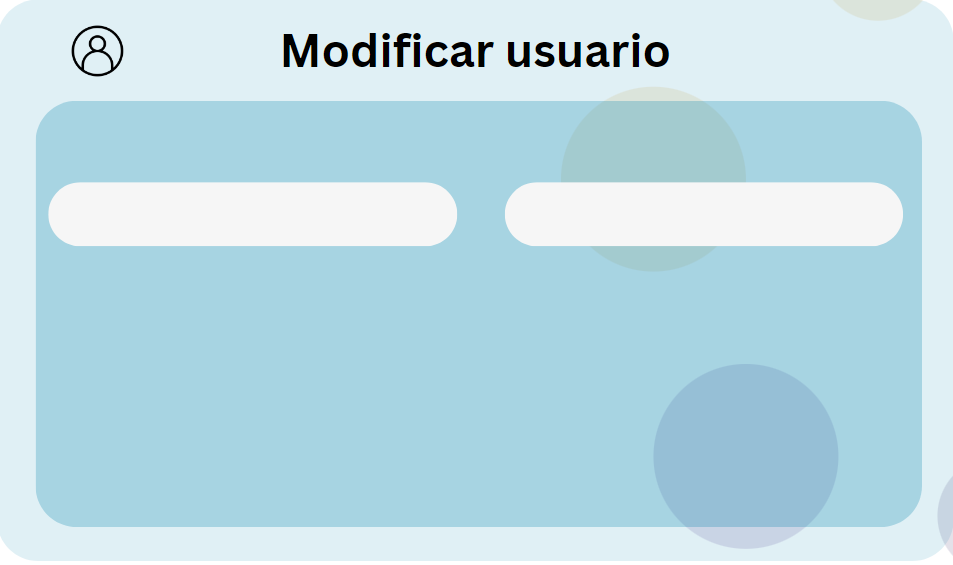
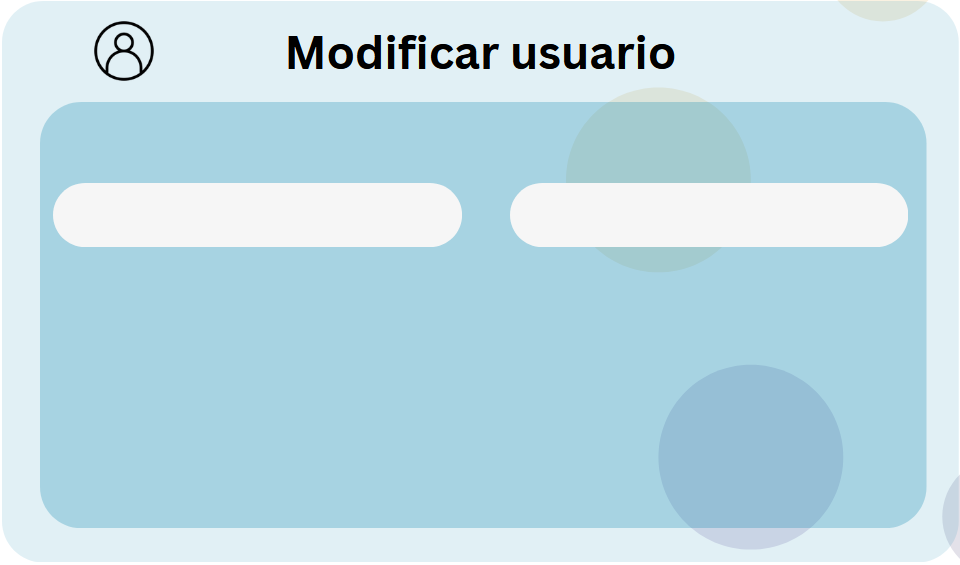
actualizado los dialogs,
se ha eliminado los dialogs antiguos de fotos, se ha añadido los nuevos, se ha creado los fondo a los dialogs

diff --git a/dentiapp/src/Vista/ModificarFacturacionDialog.java b/dentiapp/src/Vista/ModificarFacturacionDialog.java
@@ -3,6 +3,7 @@ package Vista;
 import java.awt.BorderLayout;
 import java.awt.FlowLayout;
 
+import javax.swing.ImageIcon;
 import javax.swing.JButton;
 import javax.swing.JDialog;
 import javax.swing.JPanel;
@@ -37,10 +38,14 @@ public class ModificarFacturacionDialog extends JDialog {
 		contentPanel.setLayout(new FlowLayout());
 		contentPanel.setBorder(new EmptyBorder(5, 5, 5, 5));
 		getContentPane().add(contentPanel, BorderLayout.CENTER);
-		{
-			JLabel lblNewLabel = new JLabel("modificar facturacion dialog");
-			contentPanel.add(lblNewLabel);
-		}
+		
+		JLabel lblFondo = new JLabel("");
+		lblFondo.setIcon(new ImageIcon(ModificarFacturacionDialog.class.getResource("/fotos/mod_factura.PNG")));
+		lblFondo.setBounds(0, 0, 763, 449);
+		contentPanel.add(lblFondo);
+		
+		
+		
 		{
 			JPanel buttonPane = new JPanel();
 			buttonPane.setLayout(new FlowLayout(FlowLayout.RIGHT));

diff --git a/dentiapp/src/Vista/CrearFacturacionDialog.java b/dentiapp/src/Vista/CrearFacturacionDialog.java
@@ -3,6 +3,7 @@ package Vista;
 import java.awt.BorderLayout;
 import java.awt.FlowLayout;
 
+import javax.swing.ImageIcon;
 import javax.swing.JButton;
 import javax.swing.JDialog;
 import javax.swing.JPanel;
@@ -36,10 +37,13 @@ public class CrearFacturacionDialog extends JDialog {
 		contentPanel.setLayout(new FlowLayout());
 		contentPanel.setBorder(new EmptyBorder(5, 5, 5, 5));
 		getContentPane().add(contentPanel, BorderLayout.CENTER);
-		{
-			JLabel lblNewLabel = new JLabel("crear facturacion dialogç");
-			contentPanel.add(lblNewLabel);
-		}
+		
+		JLabel lblFondo = new JLabel("");
+		lblFondo.setIcon(new ImageIcon(CrearFacturacionDialog.class.getResource("/fotos/crear_factura.PNG")));
+		lblFondo.setBounds(0, 0, 763, 449);
+		contentPanel.add(lblFondo);
+		
+		
 		{
 			JPanel buttonPane = new JPanel();
 			buttonPane.setLayout(new FlowLayout(FlowLayout.RIGHT));

diff --git a/dentiapp/src/Vista/BorrarConsultaDialog.java b/dentiapp/src/Vista/BorrarConsultaDialog.java
@@ -3,6 +3,7 @@ package Vista;
 import java.awt.BorderLayout;
 import java.awt.FlowLayout;
 
+import javax.swing.ImageIcon;
 import javax.swing.JButton;
 import javax.swing.JDialog;
 import javax.swing.JPanel;
@@ -36,10 +37,12 @@ public class BorrarConsultaDialog extends JDialog {
 		contentPanel.setLayout(new FlowLayout());
 		contentPanel.setBorder(new EmptyBorder(5, 5, 5, 5));
 		getContentPane().add(contentPanel, BorderLayout.CENTER);
-		{
-			JLabel lblNewLabel = new JLabel("borrar consulta dialog");
-			contentPanel.add(lblNewLabel);
-		}
+		JLabel lblFondo = new JLabel("");
+		
+		lblFondo.setIcon(new ImageIcon(BorrarConsultaDialog.class.getResource("/fotos/borrar_consulta.PNG")));
+		lblFondo.setBounds(0, 0, 763, 449);
+		contentPanel.add(lblFondo);
+		
 		{
 			JPanel buttonPane = new JPanel();
 			buttonPane.setLayout(new FlowLayout(FlowLayout.RIGHT));

diff --git a/dentiapp/src/Vista/ModificarDoctorDialog.java b/dentiapp/src/Vista/ModificarDoctorDialog.java
@@ -3,6 +3,7 @@ package Vista;
 import java.awt.BorderLayout;
 import java.awt.FlowLayout;
 
+import javax.swing.ImageIcon;
 import javax.swing.JButton;
 import javax.swing.JDialog;
 import javax.swing.JPanel;
@@ -36,10 +37,12 @@ public class ModificarDoctorDialog extends JDialog {
 		contentPanel.setLayout(new FlowLayout());
 		contentPanel.setBorder(new EmptyBorder(5, 5, 5, 5));
 		getContentPane().add(contentPanel, BorderLayout.CENTER);
-		{
-			JLabel lblNewLabel = new JLabel("modificar doctor dialog");
-			contentPanel.add(lblNewLabel);
-		}
+		
+		JLabel lblFondo = new JLabel("");
+		lblFondo.setIcon(new ImageIcon(ModificarDoctorDialog.class.getResource("/fotos/mod_doctor.PNG")));
+		lblFondo.setBounds(0, 0, 763, 449);
+		contentPanel.add(lblFondo);
+		
 		{
 			JPanel buttonPane = new JPanel();
 			buttonPane.setLayout(new FlowLayout(FlowLayout.RIGHT));

diff --git a/dentiapp/src/Vista/BorrarPacienteDialog.java b/dentiapp/src/Vista/BorrarPacienteDialog.java
@@ -3,6 +3,7 @@ package Vista;
 import java.awt.BorderLayout;
 import java.awt.FlowLayout;
 
+import javax.swing.ImageIcon;
 import javax.swing.JButton;
 import javax.swing.JDialog;
 import javax.swing.JPanel;
@@ -36,10 +37,13 @@ public class BorrarPacienteDialog extends JDialog {
 		contentPanel.setLayout(new FlowLayout());
 		contentPanel.setBorder(new EmptyBorder(5, 5, 5, 5));
 		getContentPane().add(contentPanel, BorderLayout.CENTER);
-		{
-			JLabel lblNewLabel = new JLabel("borrar paciente");
-			contentPanel.add(lblNewLabel);
-		}
+		
+		JLabel lblFondo = new JLabel("");
+		lblFondo.setIcon(new ImageIcon(BorrarPacienteDialog.class.getResource("/fotos/borrar_paciente.PNG")));
+		lblFondo.setBounds(0, 0, 763, 449);
+		contentPanel.add(lblFondo);
+		
+	
 		{
 			JPanel buttonPane = new JPanel();
 			buttonPane.setLayout(new FlowLayout(FlowLayout.RIGHT));

diff --git a/dentiapp/src/Vista/CrearUsuarioDialog.java b/dentiapp/src/Vista/CrearUsuarioDialog.java
@@ -3,6 +3,7 @@ package Vista;
 import java.awt.BorderLayout;
 import java.awt.FlowLayout;
 
+import javax.swing.ImageIcon;
 import javax.swing.JButton;
 import javax.swing.JDialog;
 import javax.swing.JPanel;
@@ -36,10 +37,12 @@ public class CrearUsuarioDialog extends JDialog {
 		contentPanel.setLayout(new FlowLayout());
 		contentPanel.setBorder(new EmptyBorder(5, 5, 5, 5));
 		getContentPane().add(contentPanel, BorderLayout.CENTER);
-		{
-			JLabel lblNewLabel = new JLabel("crear usuario dialog");
-			contentPanel.add(lblNewLabel);
-		}
+		
+		JLabel lblFondo = new JLabel("");
+		lblFondo.setIcon(new ImageIcon(CrearUsuarioDialog.class.getResource("/fotos/crear_usuario.PNG")));
+		lblFondo.setBounds(0, 0, 763, 449);
+		contentPanel.add(lblFondo);
+		
 		{
 			JPanel buttonPane = new JPanel();
 			buttonPane.setLayout(new FlowLayout(FlowLayout.RIGHT));

diff --git a/dentiapp/src/Vista/BorrarFacturacionDialog.java b/dentiapp/src/Vista/BorrarFacturacionDialog.java
@@ -3,6 +3,7 @@ package Vista;
 import java.awt.BorderLayout;
 import java.awt.FlowLayout;
 
+import javax.swing.ImageIcon;
 import javax.swing.JButton;
 import javax.swing.JDialog;
 import javax.swing.JPanel;
@@ -36,9 +37,12 @@ public class BorrarFacturacionDialog extends JDialog {
 		contentPanel.setLayout(new FlowLayout());
 		contentPanel.setBorder(new EmptyBorder(5, 5, 5, 5));
 		getContentPane().add(contentPanel, BorderLayout.CENTER);
+		
+		JLabel lblNewLabel = new JLabel("");
+		lblNewLabel.setIcon(new ImageIcon(BorrarFacturacionDialog.class.getResource("/fotos/borrar_facturacion.PNG")));
+		contentPanel.add(lblNewLabel);
 		{
-			JLabel lblNewLabel = new JLabel("borrar facturaciiion dialogl");
-			contentPanel.add(lblNewLabel);
+			
 		}
 		{
 			JPanel buttonPane = new JPanel();

diff --git a/dentiapp/src/Vista/ModificarUsuarioDialog.java b/dentiapp/src/Vista/ModificarUsuarioDialog.java
@@ -3,6 +3,7 @@ package Vista;
 import java.awt.BorderLayout;
 import java.awt.FlowLayout;
 
+import javax.swing.ImageIcon;
 import javax.swing.JButton;
 import javax.swing.JDialog;
 import javax.swing.JPanel;
@@ -36,6 +37,13 @@ public class ModificarUsuarioDialog extends JDialog {
 		contentPanel.setLayout(new FlowLayout());
 		contentPanel.setBorder(new EmptyBorder(5, 5, 5, 5));
 		getContentPane().add(contentPanel, BorderLayout.CENTER);
+		
+		JLabel lblFondo = new JLabel("");
+		lblFondo.setIcon(new ImageIcon(ModificarUsuarioDialog.class.getResource("/fotos/mod_usuario.PNG")));
+		lblFondo.setBounds(0, 0, 763, 449);
+		contentPanel.add(lblFondo);
+		
+		
 		{
 			JLabel lblNewLabel = new JLabel("modificar usuario dialog");
 			contentPanel.add(lblNewLabel);

diff --git a/dentiapp/src/Vista/ModificarConsultaDialog.java b/dentiapp/src/Vista/ModificarConsultaDialog.java
@@ -3,6 +3,7 @@ package Vista;
 import java.awt.BorderLayout;
 import java.awt.FlowLayout;
 
+import javax.swing.ImageIcon;
 import javax.swing.JButton;
 import javax.swing.JDialog;
 import javax.swing.JPanel;
@@ -36,6 +37,11 @@ public class ModificarConsultaDialog extends JDialog {
 		contentPanel.setLayout(new FlowLayout());
 		contentPanel.setBorder(new EmptyBorder(5, 5, 5, 5));
 		getContentPane().add(contentPanel, BorderLayout.CENTER);
+		
+		JLabel lblFondo = new JLabel("");
+		lblFondo.setIcon(new ImageIcon(ModificarConsultaDialog.class.getResource("/fotos/mod_consulta.PNG")));
+		lblFondo.setBounds(0, 0, 763, 449);
+		contentPanel.add(lblFondo);
 		{
 			JLabel lblNewLabel = new JLabel("borrar consulta dialog");
 			contentPanel.add(lblNewLabel);

diff --git a/dentiapp/src/Vista/BorrarStockDialog.java b/dentiapp/src/Vista/BorrarStockDialog.java
@@ -3,6 +3,7 @@ package Vista;
 import java.awt.BorderLayout;
 import java.awt.FlowLayout;
 
+import javax.swing.ImageIcon;
 import javax.swing.JButton;
 import javax.swing.JDialog;
 import javax.swing.JPanel;
@@ -36,6 +37,14 @@ public class BorrarStockDialog extends JDialog {
 		contentPanel.setLayout(new FlowLayout());
 		contentPanel.setBorder(new EmptyBorder(5, 5, 5, 5));
 		getContentPane().add(contentPanel, BorderLayout.CENTER);
+		
+		JLabel lblFondo = new JLabel("");
+		lblFondo.setIcon(new ImageIcon(BorrarStockDialog.class.getResource("/fotos/borrar_stock.PNG")));
+		lblFondo.setBounds(0, 0, 763, 449);
+		contentPanel.add(lblFondo);
+		
+		
+		
 		{
 			JLabel lblNewLabel = new JLabel("borrar stock dialog");
 			contentPanel.add(lblNewLabel);

diff --git a/dentiapp/src/Vista/ModificarPacienteDialog.java b/dentiapp/src/Vista/ModificarPacienteDialog.java
@@ -3,6 +3,7 @@ package Vista;
 import java.awt.BorderLayout;
 import java.awt.FlowLayout;
 
+import javax.swing.ImageIcon;
 import javax.swing.JButton;
 import javax.swing.JDialog;
 import javax.swing.JPanel;
@@ -36,6 +37,11 @@ public class ModificarPacienteDialog extends JDialog {
 		contentPanel.setLayout(new FlowLayout());
 		contentPanel.setBorder(new EmptyBorder(5, 5, 5, 5));
 		getContentPane().add(contentPanel, BorderLayout.CENTER);
+		
+		JLabel lblFondo = new JLabel("");
+		lblFondo.setIcon(new ImageIcon(ModificarPacienteDialog.class.getResource("/fotos/mod_paciente.PNG")));
+		lblFondo.setBounds(0, 0, 763, 449);
+		contentPanel.add(lblFondo);
 		{
 			JLabel lblNewLabel = new JLabel("modificar paciente");
 			contentPanel.add(lblNewLabel);

diff --git a/dentiapp/src/Vista/ModificarStockDialog.java b/dentiapp/src/Vista/ModificarStockDialog.java
@@ -3,6 +3,7 @@ package Vista;
 import java.awt.BorderLayout;
 import java.awt.FlowLayout;
 
+import javax.swing.ImageIcon;
 import javax.swing.JButton;
 import javax.swing.JDialog;
 import javax.swing.JPanel;
@@ -36,6 +37,12 @@ public class ModificarStockDialog extends JDialog {
 		contentPanel.setLayout(new FlowLayout());
 		contentPanel.setBorder(new EmptyBorder(5, 5, 5, 5));
 		getContentPane().add(contentPanel, BorderLayout.CENTER);
+		
+		JLabel lblFondo = new JLabel("");
+		lblFondo.setIcon(new ImageIcon(ModificarStockDialog.class.getResource("/fotos/mod_stock.PNG")));
+		lblFondo.setBounds(0, 0, 763, 449);
+		contentPanel.add(lblFondo);
+		
 		{
 			JLabel lblNewLabel = new JLabel("modificar stock dialog");
 			contentPanel.add(lblNewLabel);
